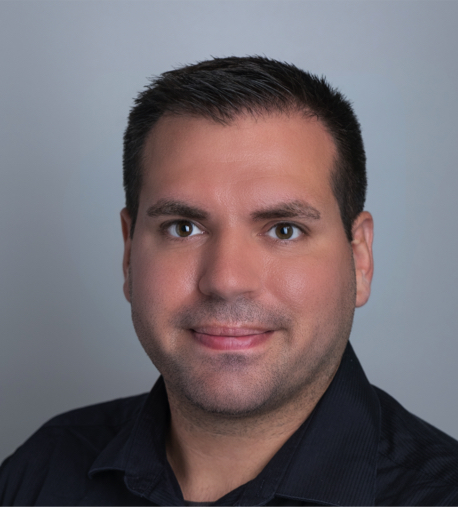
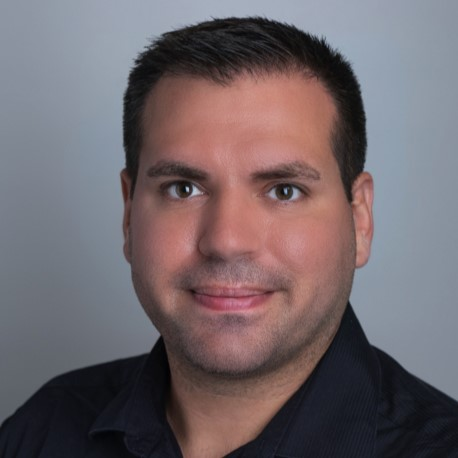
added template pictures

diff --git a/frontend/src/components/Modal.tsx b/frontend/src/components/Modal.tsx
@@ -1,6 +1,13 @@
-import React from 'react'
+import React, { useState } from 'react'
 import Cropper from 'react-cropper'
 import 'cropperjs/dist/cropper.css'
+
+import LiterallyHim from '../assets/LiterallyHim.jpg'
+import squid1 from '../assets/squid1.jpg'
+import squid2 from '../assets/squid2.jpg'
+import squid3 from '../assets/squid3.jpg'
+import squid4 from '../assets/squid4.jpg'
+import squid5 from '../assets/squid5.jpg'
 
 import CropTool from './Cropper'
 
@@ -12,6 +19,7 @@ interface ModalProps{
   }
 
 const Modal: React.FC<ModalProps> = ({cropData, setCropData, setFinalImage, finalImage}) => {
+    const [image, setImage] = useState();
     // if (!isModalOpen){
     //     return null;
     // }
@@ -63,11 +71,20 @@ const Modal: React.FC<ModalProps> = ({cropData, setCropData, setFinalImage, fina
                 <dialog id="my_modal_2" className="modal">
                     <div className="modal-box">
                         <h3 className="font-bold text-lg">Change your profile picture below!</h3>
+                        <div className="grid grid-cols-3 gap-y-4">
+                            <img className='btn h-fit w-fit' src={squid1} onClick={() => setImage(squid1)}></img>
+                            <img className='btn h-fit w-fit' src={squid2} onClick={() => setImage(squid2)}></img>
+                            <img className='btn h-fit w-fit' src={squid3} onClick={() => setImage(squid3)}></img>
+                            <img className='btn h-fit w-fit' src={squid4} onClick={() => setImage(squid4)}></img>
+                            <img className='btn h-fit w-fit' src={squid5} onClick={() => setImage(squid5)}></img>
+                            <img className='btn h-fit w-fit' src={LiterallyHim} onClick={() => setImage(LiterallyHim)}></img>
+                        </div>
+                        <h3 className="font-bold text-lg">OR:</h3>
                         <div className='text-md font-semibold'>
                             Upload Image:
                         </div>
                         {/* <input type="file" onChange={handleFileUpload} /> */}
-                        <CropTool cropData={cropData} setCropData={setCropData} setFinalImage={setFinalImage} finalImage={finalImage}/>
+                        <CropTool cropData={cropData} setCropData={setCropData} setFinalImage={setFinalImage} finalImage={finalImage} image={image} setImage={setImage}/>
                     </div>
                     <form method="dialog" className="modal-backdrop">
                         <button>close</button>

diff --git a/frontend/src/components/Cropper.tsx b/frontend/src/components/Cropper.tsx
@@ -8,10 +8,11 @@ interface CropProps{
   setCropData: any;
   finalImage: any;
   setFinalImage: any;
+  image: any;
+  setImage: any;
 }
 
-export const CropTool: React.FC<CropProps> = ({cropData, setCropData, finalImage, setFinalImage}) => {
-  const [image, setImage] = useState();
+export const CropTool: React.FC<CropProps> = ({cropData, setCropData, finalImage, setFinalImage, image, setImage}) => {
   const [isSelected, setSelected]= useState(false);
   const cropperRef = useRef<ReactCropperElement>(null);
   
